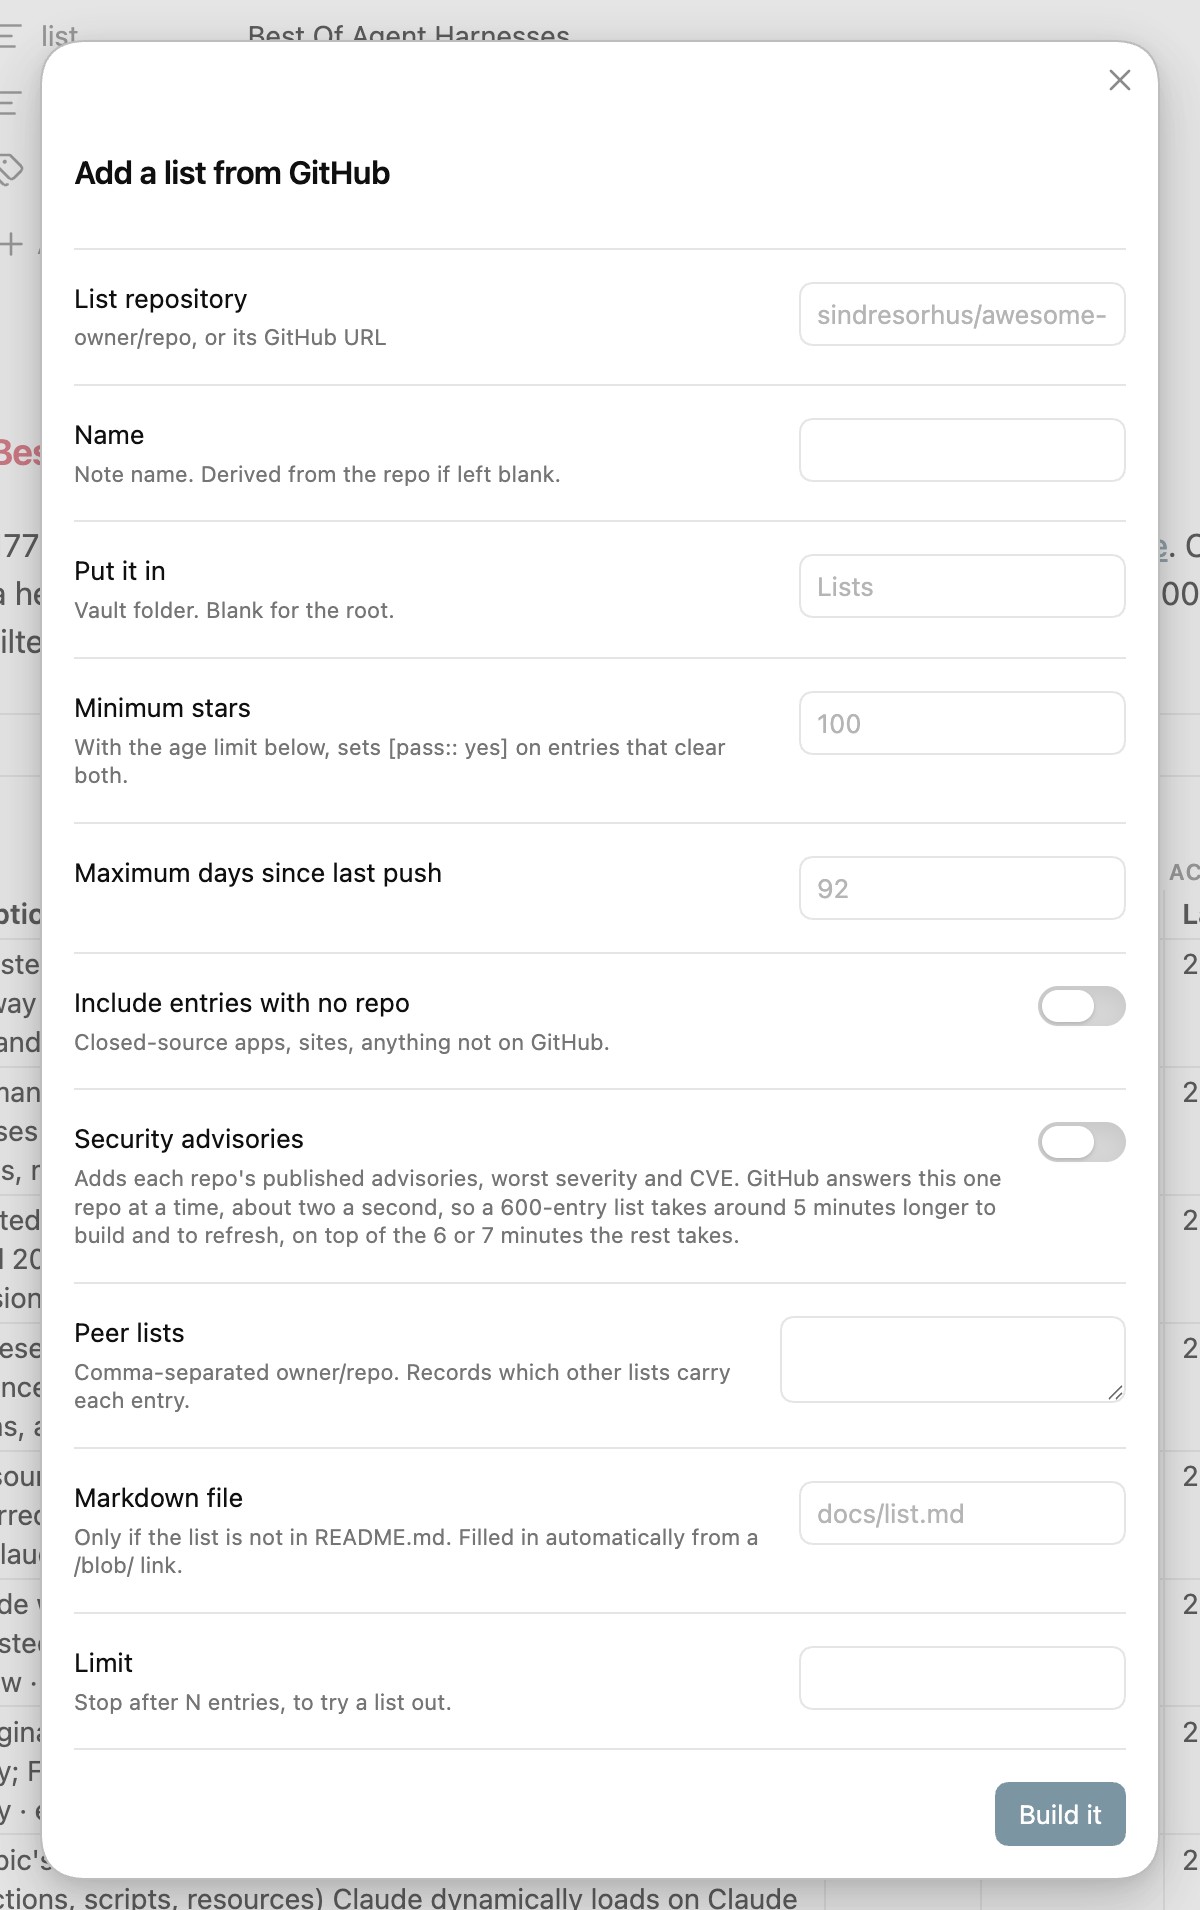
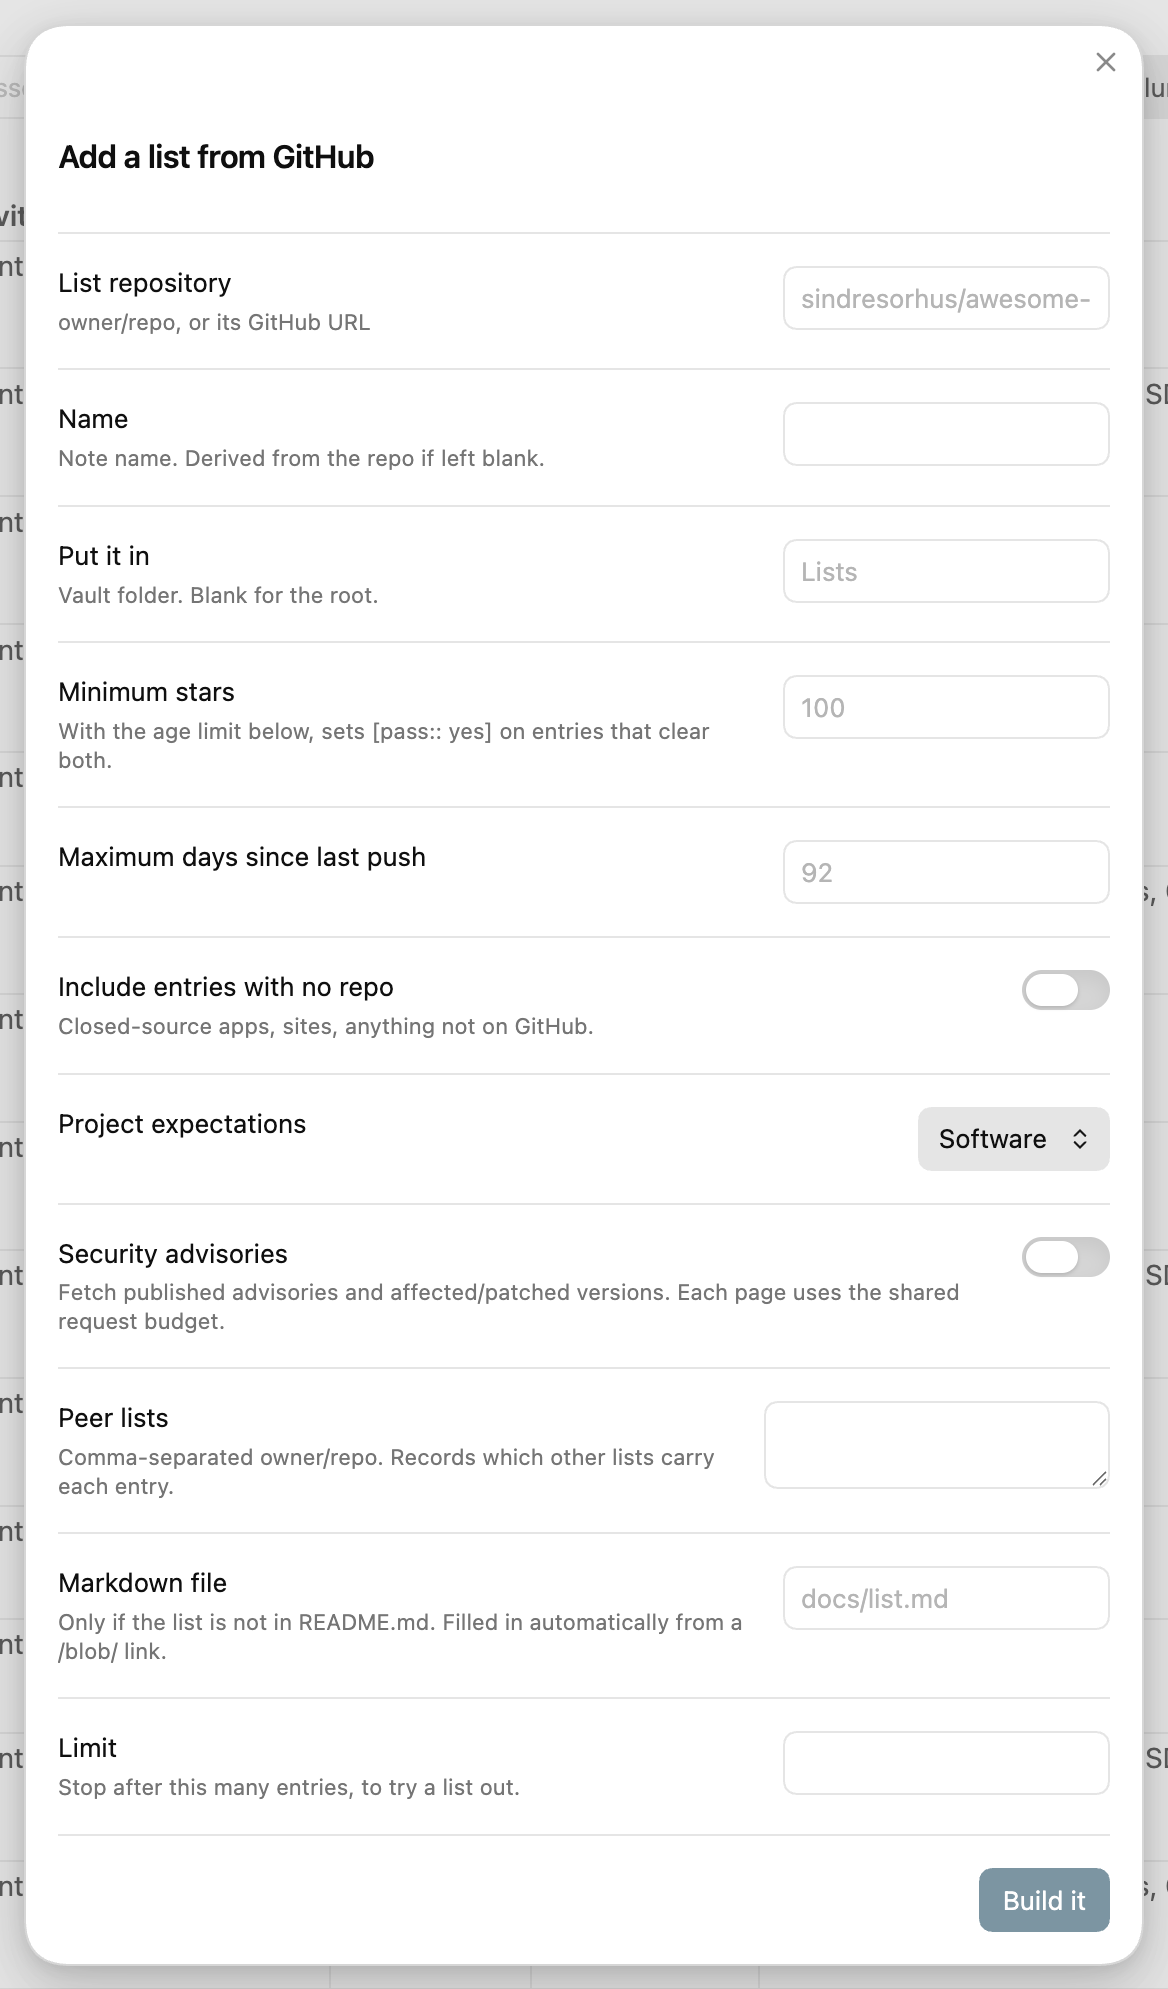
Recapture the screenshots against the current plugin
The table images show the current default columns with the row
actions, and the dialog image includes the project expectations
field. Captions describe what each image shows.

diff --git a/README.md b/README.md
@@ -4,7 +4,7 @@ Listkeeper turns a Markdown list of GitHub projects into a sortable table in an 
 
 [![License](https://img.shields.io/github/license/amoslives/listkeeper)](LICENSE)
 
-![A list of 177 agent tools displayed as a table in Obsidian. The table includes the verdict, name, section, description, stars, stars gained, last push, recent commits, engagement, criticality, issue ratio, advisories, and license.](screenshots/hero.png)
+![A list of 194 agent harnesses displayed as a table in Obsidian. Each row shows the verdict, the name with its Evidence / review and Research actions, activity, assessment, new concerns, section and description; the remaining default columns are off-screen to the right.](screenshots/hero.png)
 
 Give Listkeeper an awesome list, a best-of list, or another Markdown file that links to GitHub repositories. It reads links from Markdown bullets and tables, fetches repository data from GitHub, and creates two notes:
 
@@ -35,7 +35,7 @@ stars>1000 lang:rust pushed>2026-06-01
 
 All active terms must match a row. A leading `-` excludes matches.
 
-![The table filtered with verdict:check. The remaining rows show the fields that caused a check verdict.](screenshots/filter-check.png)
+![The table filtered with verdict:check. Seven rows remain, and their sections, activity and new concerns show why each needs a check before installing.](screenshots/filter-check.png)
 
 Up to 13 columns are selected by default. A column appears only when at least one entry contains that field. Use **Columns**, or right-click the header row, to change the selection. Hidden columns can still be used in filters.
 
@@ -45,7 +45,7 @@ Tap **Evidence / review** under a project name to see automatic concerns, check 
 
 Tap **Research** to create a note only for the selected project, or reopen its explicitly attached research link. Your research note contains a repository link and an editable heading; fetched metadata remains in the entries note.
 
-![The Add a list dialog with its source, folder, thresholds, advisory, peer-list, Markdown-file, and limit fields.](screenshots/add-list.png)
+![The Add a list dialog with its source, name, folder, threshold, project expectation, advisory, peer-list, Markdown-file and limit fields.](screenshots/add-list.png)
 
 On a narrow screen, the table scrolls horizontally while the Verdict and Name columns remain visible. The screenshots use the Minimal theme.
 
